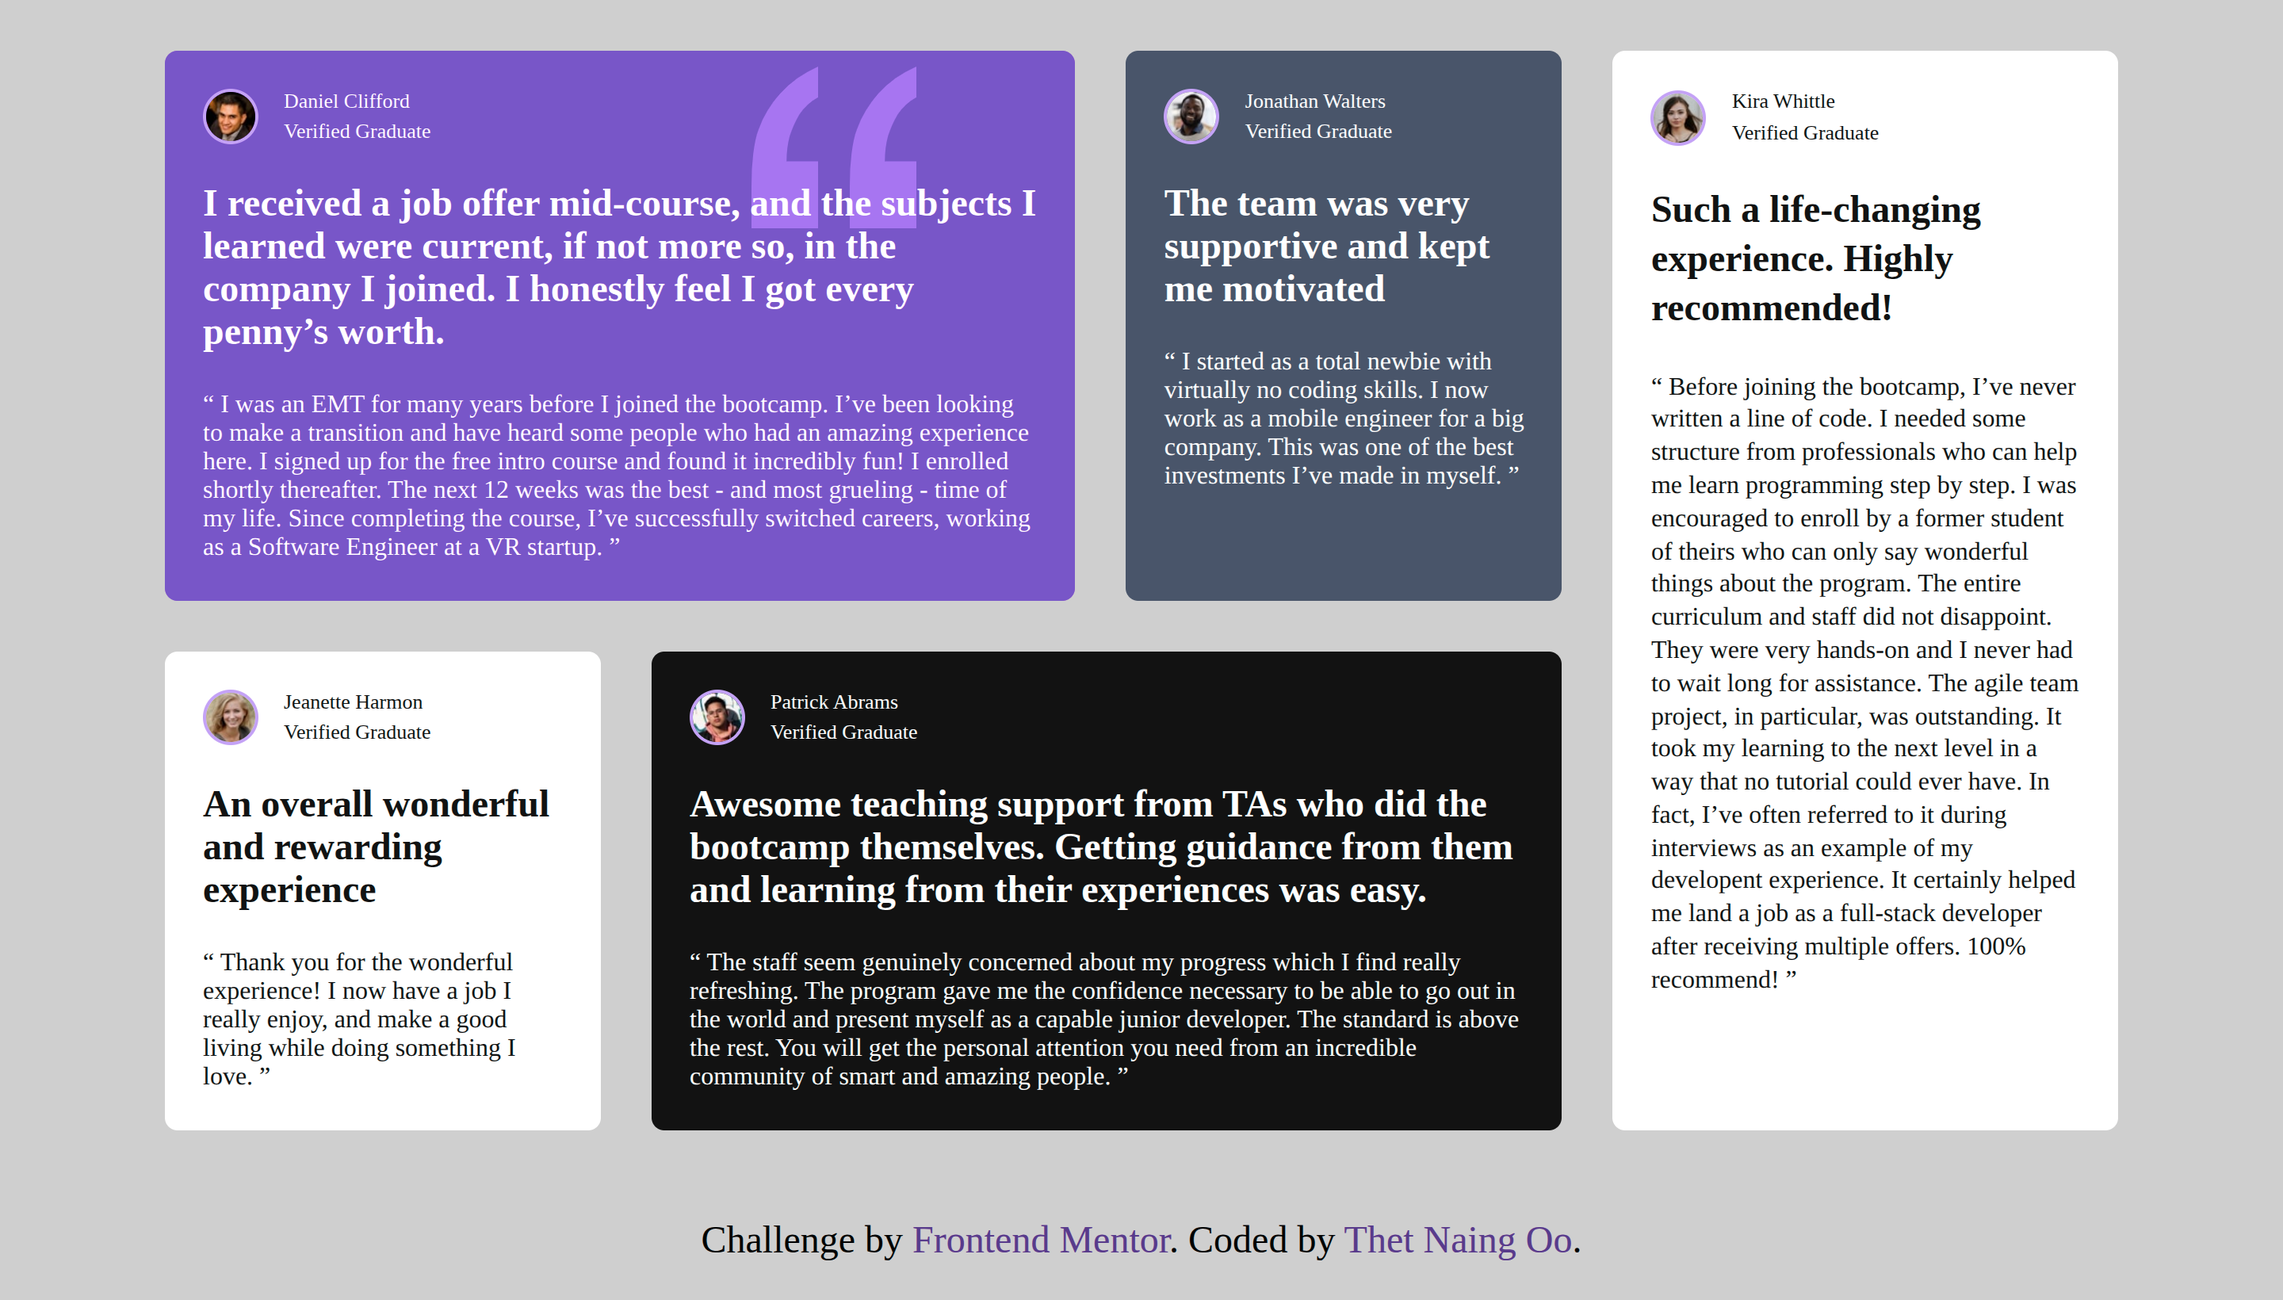
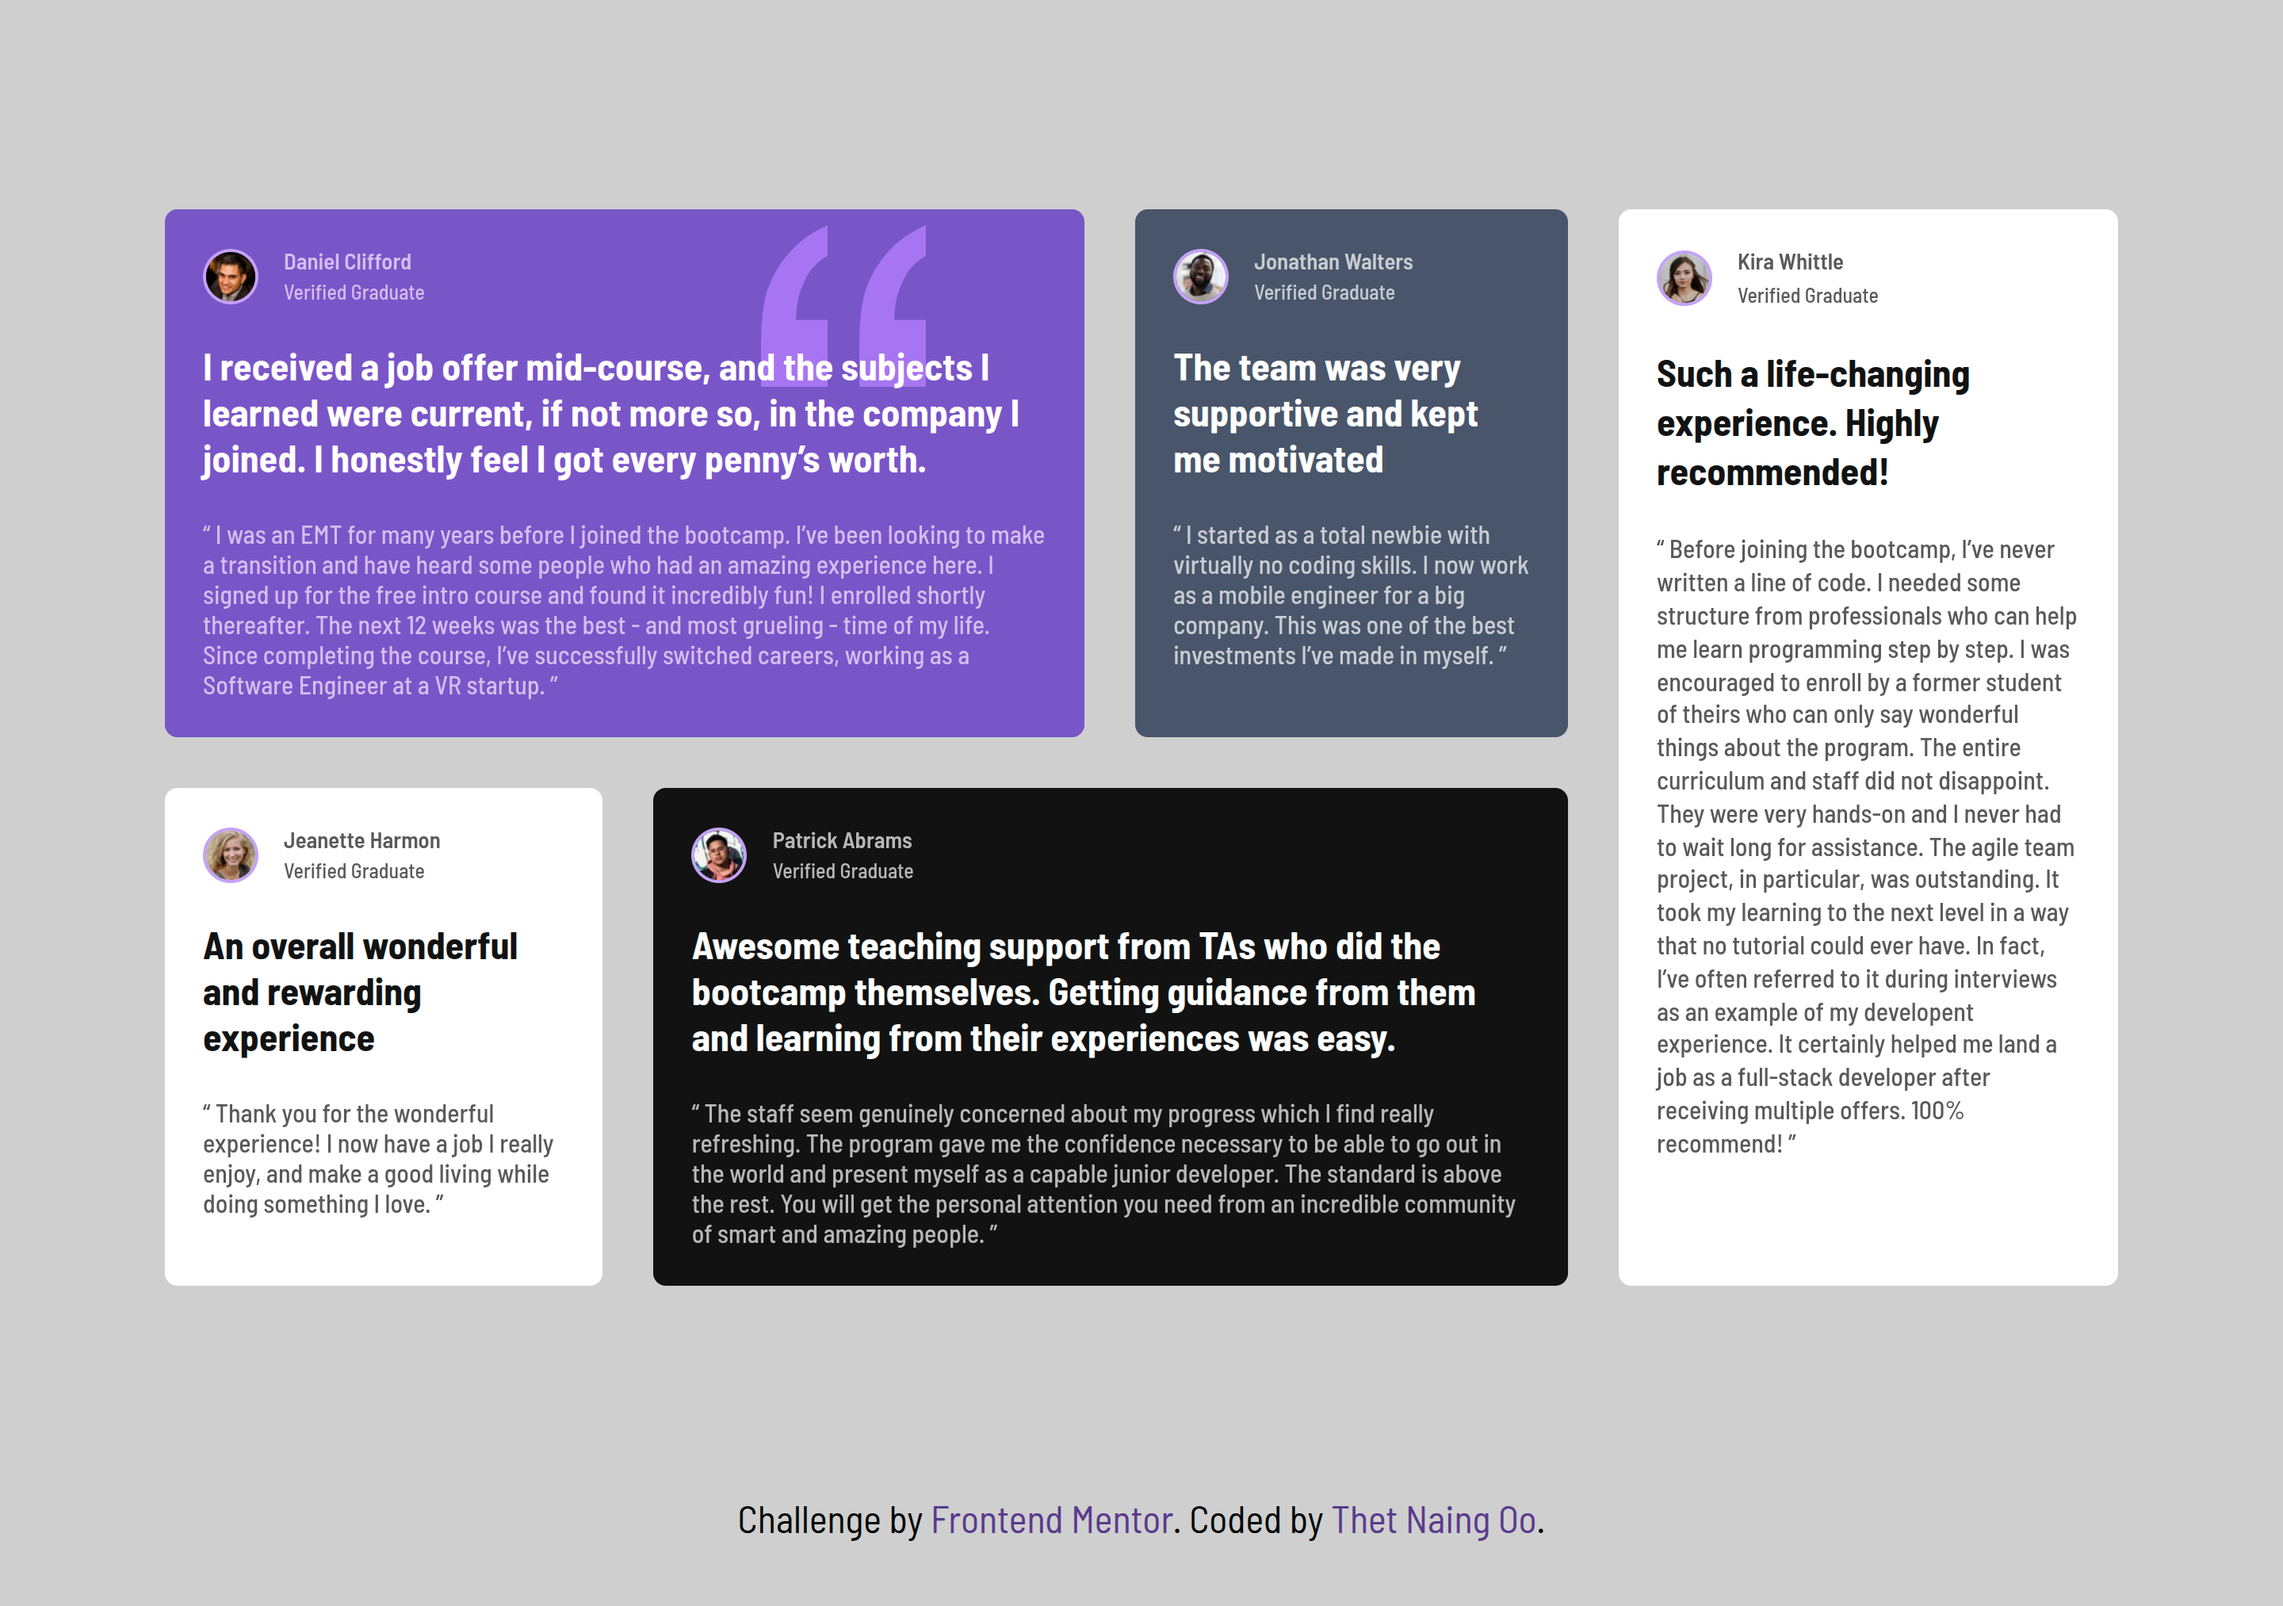
added live site link and get ready to upload

Changed region(s): [[0.0625, 0.0311, 0.9375, 0.8707], [0.3125, 0.9329, 0.6875, 0.964]]

diff --git a/styles.css b/styles.css
@@ -16,6 +16,7 @@
 	--fw-light : 500;
 	--fw-bold : 600;
 	--border-radius :0.5rem;
+	--ff-primary : "Barlow Semi Condensed"
 }
 
 * {
@@ -39,6 +40,12 @@ body {
 	flex-direction: column;
 	gap: 1.5rem;
 	color: var(--neutral-white);
+	font-family: var(--ff-primary);
+}
+
+.cards p{
+	font-weight: var(--fw-light);
+	opacity: 70%;
 }
 .card-items {
 	display: flex;
@@ -76,10 +83,20 @@ body {
 	gap: 0.2rem;
 }
 
+.card-items p:nth-child(1){
+	font-weight: var(--fw-bold);
+	font-size: 0.9rem;
+}
+
+.card-items p:nth-child(2){
+	font-weight: var(--fw-light);
+}
+
 .main{
 	padding: 2rem;
 	display: grid;
 	gap: 2rem;
+	margin: 100px auto;
 }
 
 
@@ -93,6 +110,7 @@ image {
 	margin: 1.5rem auto;
 	text-align: center;
 	font-size: 1.5rem;
+	font-family: var(--ff-primary);
 }
 
 .attribution a {
@@ -101,7 +119,6 @@ image {
 
 @media only screen and (min-width : 768px){
 	.main{
-		margin: 0 auto;
 		max-width: 90%;
 		grid-template-areas: 
 		"daniel daniel daniel jonathan kira"

diff --git a/index.html b/index.html
@@ -7,6 +7,9 @@
   <link rel="icon" type="image/png" sizes="32x32" href="./images/favicon-32x32.png">
   <title>Frontend Mentor | [Challenge Name Here]</title>
   <link rel="stylesheet" type="text/css" href="./styles.css">
+  <link rel="preconnect" href="https://fonts.googleapis.com">
+<link rel="preconnect" href="https://fonts.gstatic.com" crossorigin>
+<link href="https://fonts.googleapis.com/css2?family=Barlow+Semi+Condensed:ital,wght@0,100;0,200;0,300;0,400;0,500;0,600;0,700;0,800;0,900;1,100;1,200;1,300;1,400;1,500;1,600;1,700;1,800;1,900&display=swap" rel="stylesheet">
 </head>
 <body>
   <div class="main">
@@ -14,7 +17,7 @@
       <div class="card-items">
          <img class="profile" width="35" height="35" src="./images/image-daniel.jpg">
         <div>
-          <p>Daniel Clifford</p>
+          <p class="name">Daniel Clifford</p>
           <p>Verified Graduate</p>
         </div>
       </div>

diff --git a/README.md b/README.md
@@ -36,8 +36,8 @@ Users should be able to:
 
 ### Links
 
-- Solution URL: [Add solution URL here](https://your-solution-url.com)
-- Live Site URL: [Add live site URL here](https://your-live-site-url.com)
+- Solution URL: [Add solution URL here](https://github.com/Thet81/testimonials-grid-section)
+- Live Site URL: [Add live site URL here](https://thet81.github.io/testimonials-grid-section/)
 
 ## My process
 - I reset css and defined css custom properties. And then I started the layout using `css grid`.
@@ -75,8 +75,7 @@ Users should be able to:
 
 ## Author
 
-- Website - [Add your name here](https://www.your-site.com)
-- Frontend Mentor - [@yourusername](https://www.frontendmentor.io/profile/yourusername)
+- Frontend Mentor - [@yourusername](https://www.frontendmentor.io/profile/Thet81)
 
 
 ## Acknowledgments
